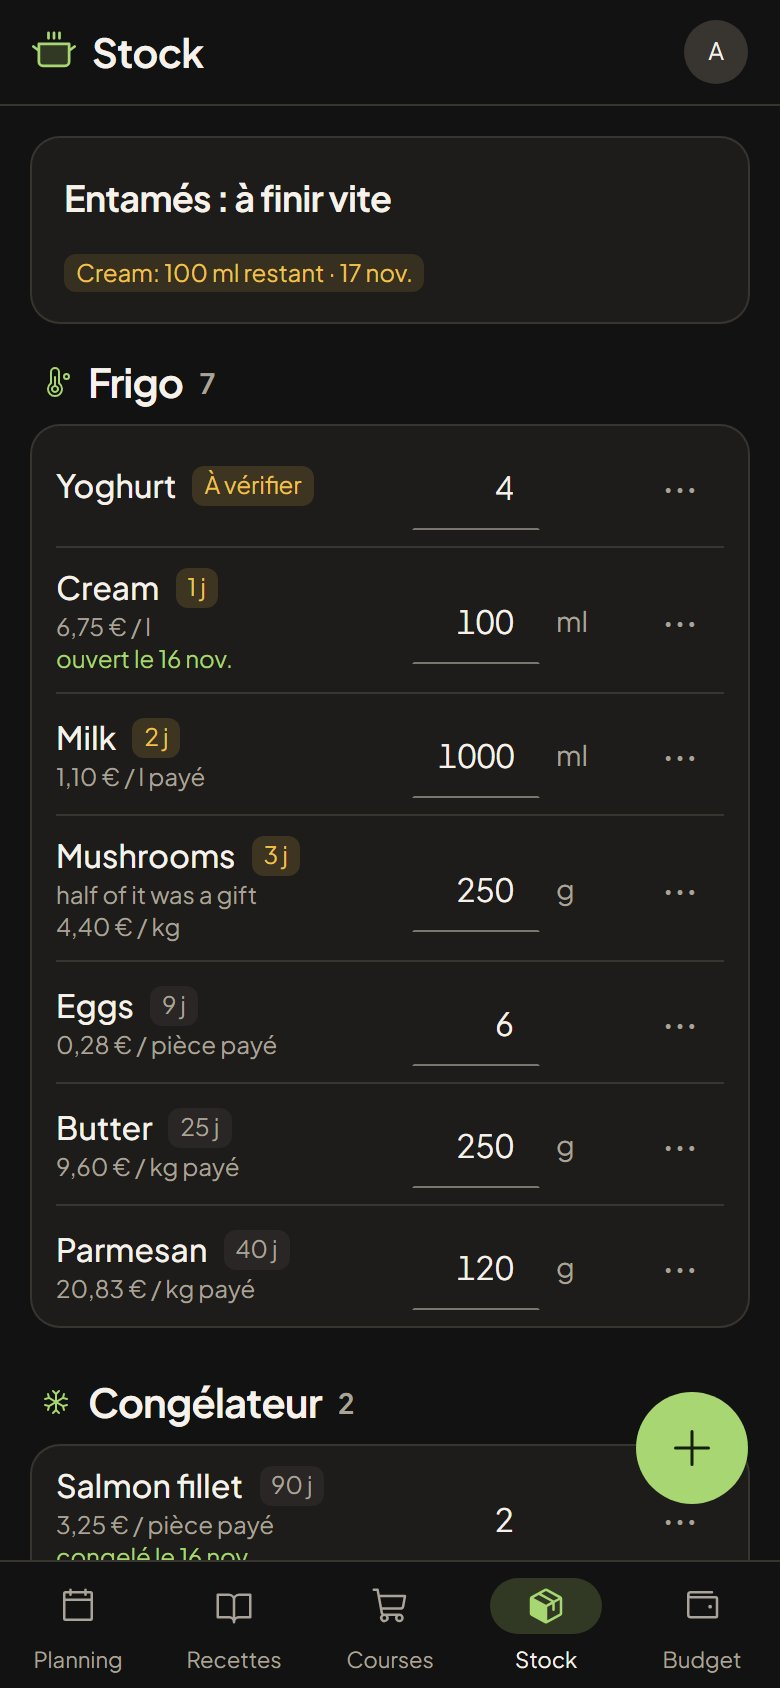
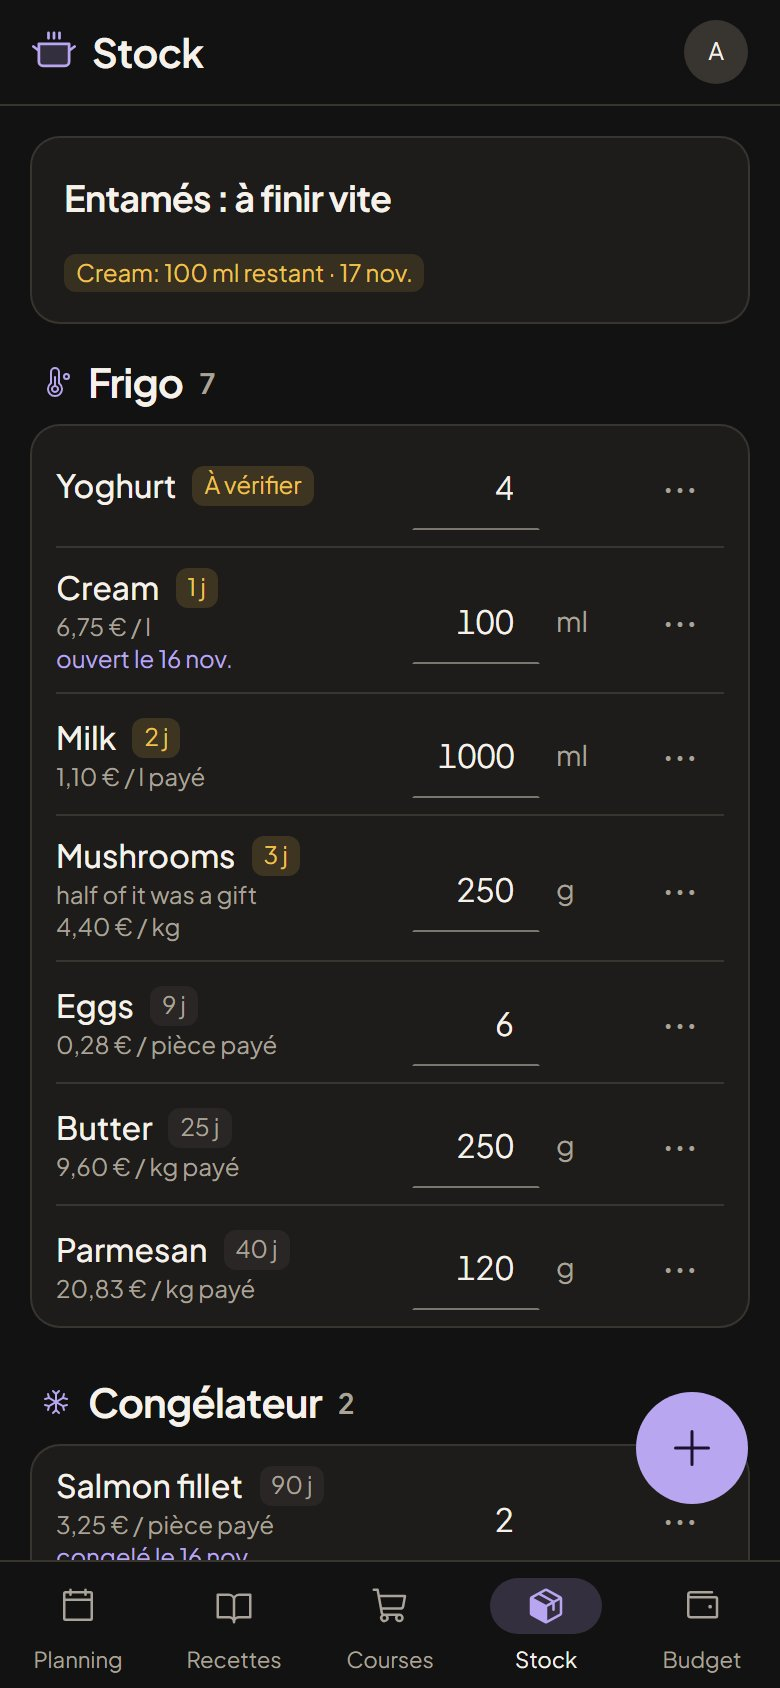
Make lavender the default accent and retake the site screenshots
Lavender is first in the picker and the stylesheet default; a stored choice still wins.
Screenshots on the site (including the nutrition ones) are retaken with it.

diff --git a/web/src/theme.ts b/web/src/theme.ts
@@ -3,18 +3,18 @@
  * choice only has to give the accent itself and the ink that stays readable on top of it.
  */
 export const ACCENTS = [
+  { id: 'lavender', color: '#b9a6f0', ink: '#1a1230' },
   { id: 'sage', color: '#a8d672', ink: '#13200a' },
   { id: 'tomato', color: '#ef8354', ink: '#1d0f08' },
   { id: 'ochre', color: '#e8b24a', ink: '#241a05' },
   { id: 'sky', color: '#7cc4e8', ink: '#08202b' },
   { id: 'rose', color: '#f09bb5', ink: '#2b0f19' },
-  { id: 'lavender', color: '#b9a6f0', ink: '#1a1230' },
 ] as const;
 
 export type AccentId = (typeof ACCENTS)[number]['id'];
 
 const STORAGE_KEY = 'mealmcp.accent';
-const DEFAULT: AccentId = 'sage';
+const DEFAULT: AccentId = 'lavender';
 
 const isAccent = (v: unknown): v is AccentId => ACCENTS.some((a) => a.id === v);
 
@@ -29,7 +29,7 @@ export function savedAccent(): AccentId {
 }
 
 export function applyAccent(id: AccentId, persist = false) {
-  const accent = ACCENTS.find((a) => a.id === id) ?? ACCENTS[0];
+  const accent = ACCENTS.find((a) => a.id === id) ?? ACCENTS[0]; // lavender, the default
   const root = document.documentElement.style;
   if (accent.id === DEFAULT) {
     root.removeProperty('--accent');

diff --git a/web/src/index.css b/web/src/index.css
@@ -2,7 +2,7 @@
 @import '@fontsource-variable/plus-jakarta-sans';
 
 /*
- * Flat theme: a charcoal ground, cream ink and one accent (sage by default, user-selectable), set in a single
+ * Flat theme: a charcoal ground, cream ink and one accent (lavender by default, user-selectable), set in a single
  * geometric sans. No gradients, glows, grain or shadows: depth comes from surface tones and 1px outlines.
  * Everything in the app takes its colours from the semantic variables below, so restyling means editing this block.
  */
@@ -19,9 +19,9 @@
   --neutral-800: #38342f;
   --divider: color-mix(in srgb, #f6f1ea 16%, transparent);
 
-  /* Sage is the default accent; theme.ts overrides --accent and --accent-ink when the user picks another. */
-  --accent: #a8d672;
-  --accent-ink: #13200a;
+  /* Lavender is the default accent; theme.ts overrides --accent and --accent-ink when the user picks another. */
+  --accent: #b9a6f0;
+  --accent-ink: #1a1230;
   /* "In stock" green: a meaning, so it does not follow the accent. */
   --herb: #a8d672;
   --accent-300: color-mix(in srgb, var(--accent) 45%, white);

diff --git a/web/src/theme.test.ts b/web/src/theme.test.ts
@@ -7,9 +7,9 @@ afterEach(() => {
 });
 
 describe('accent colour', () => {
-  it('defaults to sage and leaves the stylesheet values alone', () => {
-    expect(savedAccent()).toBe('sage');
-    applyAccent('sage');
+  it('defaults to lavender and leaves the stylesheet values alone', () => {
+    expect(savedAccent()).toBe('lavender');
+    applyAccent('lavender');
     expect(document.documentElement.style.getPropertyValue('--accent')).toBe('');
   });
 
@@ -22,6 +22,6 @@ describe('accent colour', () => {
 
   it('ignores a stored value it does not know', () => {
     localStorage.setItem('mealmcp.accent', 'nope');
-    expect(savedAccent()).toBe('sage');
+    expect(savedAccent()).toBe('lavender');
   });
 });
